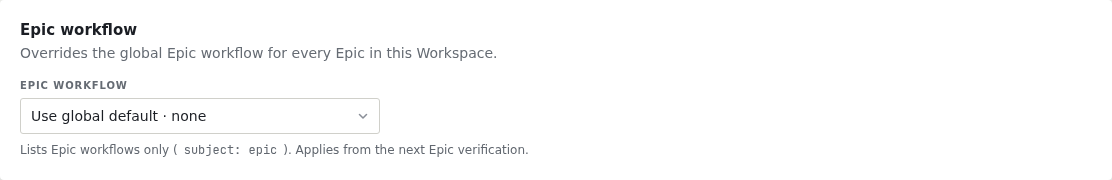
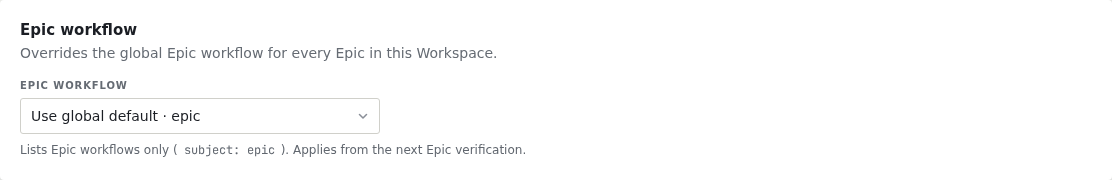
fix(workflows): share the bundled Epic workflow name with the settings UI and retake settings screenshots (#950)
The settings card and resolveEpicWorkflow now read one BUNDLED_EPIC_WORKFLOW
constant instead of a commented copy, and the global/Workspace Epic workflow
screenshots show the shipped "Bundled default" and "Use global default" options.

Changed region(s): [[0.1529, 0.8056, 0.4892, 0.8611], [0.1529, 0.6111, 0.1835, 0.6944]]

diff --git a/web/src/components/WorkflowLabelsEditor.tsx b/web/src/components/WorkflowLabelsEditor.tsx
@@ -1,6 +1,7 @@
 import type { ReactNode } from 'react';
 import { arrayMove } from '@dnd-kit/sortable';
 import { describeWorkflowLabelIssue, workflowLabelIssueMessage, workflowLabelIssues, workflowLabelOverlayIssues, workflowLabelRef, type WorkflowLabelIssue } from '../../../src/domain/setting-override.js';
+import { BUNDLED_EPIC_WORKFLOW } from '../../../src/domain/workflow.js';
 import { api } from '../api';
 import type { AppConfig, WorkflowLabelOverlayEntry, WorkflowLibraryEntry } from '../types';
 import { chip, codeChip, field } from '../ui';
@@ -139,9 +140,6 @@ function DefaultWorkflow({
   );
 }
 
-/** What resolveEpicWorkflow falls back to when no Epic workflow is chosen. */
-const BUNDLED_EPIC = 'epic';
-
 export function EpicWorkflowEditor({
   surface,
   value,
@@ -168,7 +166,7 @@ export function EpicWorkflowEditor({
       }
       library={library}
       value={value}
-      inheritLabel={workspace ? `Use global default · ${globalValue ?? BUNDLED_EPIC}` : `Bundled default · ${BUNDLED_EPIC}${versionSuffix(library, BUNDLED_EPIC)}`}
+      inheritLabel={workspace ? `Use global default · ${globalValue ?? BUNDLED_EPIC_WORKFLOW}` : `Bundled default · ${BUNDLED_EPIC_WORKFLOW}${versionSuffix(library, BUNDLED_EPIC_WORKFLOW)}`}
       onChange={onChange}
     />
   );

diff --git a/src/domain/workflow-assignment.ts b/src/domain/workflow-assignment.ts
@@ -2,6 +2,7 @@ import type { AppConfig } from '../config.js';
 import type { RawTaskRow, WorkflowChosen, WorkspaceRow } from '../db/schema.js';
 import { resolveWorkflowLabels } from './workflow-labels.js';
 import { workflowLabelRef } from './setting-override.js';
+import { BUNDLED_EPIC_WORKFLOW } from './workflow.js';
 
 export type WorkflowAssignment = { name: string; chosen: WorkflowChosen; label?: string; reason?: string };
 
@@ -53,7 +54,7 @@ export function resolveEpicWorkflow(
   if (workspaceChoice != null && exists(workspaceChoice)) return { name: workspaceChoice, chosen: 'workspace' };
   const globalChoice = config.defaults.epicWorkflow;
   if (globalChoice != null && exists(globalChoice)) return { name: globalChoice, chosen: 'global' };
-  return { name: 'epic', chosen: 'global' };
+  return { name: BUNDLED_EPIC_WORKFLOW, chosen: 'global' };
 }
 
 export function workflowInputOf(

diff --git a/src/domain/workflow.ts b/src/domain/workflow.ts
@@ -9,6 +9,7 @@ export const VAR_NAME_PATTERN = /^[a-z][a-zA-Z0-9_-]{0,63}$/;
 export const WORKFLOW_ACTIONS = ['rebase', 'agent', 'verify', 'command', 'critic', 'merge', 'open-pr', 'artifact', 'post-merge-check', 'close-ticket', 'comment', 'cleanup'] as const;
 
 export const WORKFLOW_SUBJECTS = ['ticket', 'epic'] as const;
+export const BUNDLED_EPIC_WORKFLOW = 'epic';
 export type WorkflowSubject = (typeof WORKFLOW_SUBJECTS)[number];
 
 const stepIdSchema = z.string().regex(WORKFLOW_NAME_PATTERN, 'a step id starts with a lowercase letter and holds lowercase letters, digits, - or _');

diff --git a/web/src/types.ts b/web/src/types.ts
@@ -47,7 +47,6 @@ export interface WorkflowIssue {
 
 export type WorkflowDocument = Pick<WorkflowLibraryEntry, 'name' | 'description' | 'bundled' | 'version'> & { text: string };
 
-/** The Epic workflow an Epic runs and which setting chose it. */
 export interface EpicWorkflowRef {
   name: string;
   version: number;

diff --git a/web/src/components/EpicPage.tsx b/web/src/components/EpicPage.tsx
@@ -98,7 +98,6 @@ function DependsOn({ refs }: { refs: TrackerRef[] }) {
   );
 }
 
-/** The Workflow line in the Epic header card: which Epic workflow runs and where it was chosen. */
 export function EpicWorkflowLine({ workflow }: { workflow: Epic['workflow'] }) {
   if (!workflow) return null;
   return (
